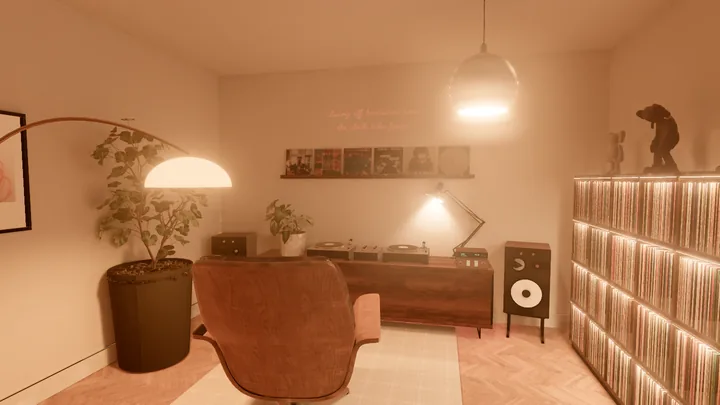
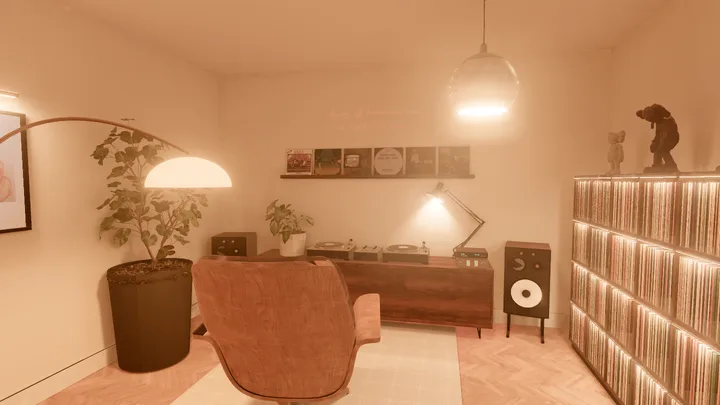
Listening Room post: seven lights (brass picture lights over the art)
Claude-Session: https://claude.ai/code/session_01LommHjWzrAy5NjnEbuJJz3

diff --git a/writing/listening-room.html b/writing/listening-room.html
@@ -121,7 +121,7 @@
             <blockquote class="prompt"><p>Obtain models from online, I won't model anything, you need to do that and drive that, along with textures and any animations. I'm looking for a highly refined and design-polished aesthetic. Realism is key.</p></blockquote>
             <p>That was the deal. I'd be the art director. Claude, working in Claude Code, would be the whole studio: 3D modeller, lighting artist, front-end developer, audio engineer and the person who deploys it at 4am.</p>
             <p>I'll be honest, I didn't think it would hold. I expected to hit a wall somewhere around the 3D and end up in Blender myself, watching tutorials. I never opened it. Not once.</p>
-            <p>That's the bit I find genuinely interesting. Not that AI can write code (we all know that by now), but that the whole chain from "find me a chair" to "bake the light from six lamps" can be driven by someone describing what they want and reacting to what they see.</p>
+            <p>That's the bit I find genuinely interesting. Not that AI can write code (we all know that by now), but that the whole chain from "find me a chair" to "bake the light from seven lamps" can be driven by someone describing what they want and reacting to what they see.</p>
 
             <h2 id="built"><span class="num">03</span>What got built</h2>
             <p>One evening, one night's sleep, one long day of feedback. Here's the tally.</p>
@@ -149,7 +149,7 @@
                 <li><strong>Dig the crate.</strong> Pull records from my collection or my recently played, load them onto deck A or B and press Start.</li>
                 <li><strong>Mix.</strong> Mix mode locks the camera over the decks. Grab the record to scratch, drag the tonearm to drop the needle, ride the faders and the crossfader.</li>
                 <li><strong>Click any sleeve</strong> on the shelf for the tracklist and a short artist bio.</li>
-                <li><strong>Switch the lights.</strong> Six lights (five lamps and LED strips under the shelves), four scenes (Sunday morning, Golden hour, Late night, All on), dimmers that warm up as they dim like real bulbs.</li>
+                <li><strong>Switch the lights.</strong> Seven lights (five lamps, brass picture lights over the art, and LED strips under the shelves), four scenes (Sunday morning, Golden hour, Late night, All on), dimmers that warm up as they dim like real bulbs.</li>
                 <li><strong>Stream</strong> a classic mix through SoundCloud: Coldcut's <em>70 Minutes of Madness</em>, Larry Levan at the Paradise Garage, the Dirtchamber Sessions.</li>
                 <li><strong>Type DOOM or DILLA.</strong> Actually, I'll let you find that one.</li>
             </ul>
@@ -207,7 +207,7 @@ cell, th, dep, ncol, nrow = 0.345, 0.02, 0.4, 5, 4
             <h3>2. Light that's real, but cheap</h3>
             <p>Realistic light is the expensive part of 3D. Light bounces: off the walls, the floor, the ceiling, the chair. Calculating that live in a browser would melt your laptop.</p>
             <p>The trick is to work it out once, in advance. Blender fires millions of light rays around the room and saves the result as an image, a <strong>lightmap</strong>, painted onto every surface. It's how games have looked good for twenty years.</p>
-            <p>The twist here: the lamps have to switch on and off. So the room is baked six times, once per light, each in plain white light. The browser then blends the six together live, tinting each one with its own colour and brightness.</p>
+            <p>The twist here: the lamps have to switch on and off. So the room is baked seven times, once per light, each in plain white light. The browser then blends the seven together live, tinting each one with its own colour and brightness.</p>
 
             <figure class="post-figure">
                 <div class="lightsum">
@@ -217,10 +217,11 @@ cell, th, dep, ncol, nrow = 0.345, 0.02, 0.4, 5, 4
                     <div class="tile"><img src="/images/writing/listening-room/lamp-desk.webp" width="720" height="405" alt="The room lit only by the anglepoise over the decks." loading="lazy"><span class="tag">Anglepoise</span></div>
                     <div class="tile"><img src="/images/writing/listening-room/lamp-neon.webp" width="720" height="405" alt="The room lit only by the neon sign." loading="lazy"><span class="tag">Neon</span></div>
                     <div class="tile"><img src="/images/writing/listening-room/lamp-shelf.webp" width="720" height="405" alt="The room lit only by the LED strips under the record shelf." loading="lazy"><span class="tag">Shelf LEDs</span></div>
+                    <div class="tile"><img src="/images/writing/listening-room/lamp-picture.webp" width="720" height="405" alt="The room lit only by the brass picture lights over the frames." loading="lazy"><span class="tag">Art lights</span></div>
                     <span class="op" aria-hidden="true">=</span>
-                    <div class="tile all"><img src="/images/writing/listening-room/lamp-all.webp" width="720" height="405" alt="The room with all six lights on together." loading="lazy"><span class="tag acid">All six</span></div>
+                    <div class="tile all"><img src="/images/writing/listening-room/lamp-all.webp" width="720" height="405" alt="The room with all seven lights on together." loading="lazy"><span class="tag acid">All seven</span></div>
                 </div>
-                <figcaption>Six baked layers, one per light, added together live. Turn a dimmer down and that layer, bounces and all, fades out.</figcaption>
+                <figcaption>Seven baked layers, one per light, added together live. Turn a dimmer down and that layer, bounces and all, fades out.</figcaption>
             </figure>
 
             <span class="code-label">GLSL · mixing the lamps</span>
@@ -241,7 +242,7 @@ vec3 mixLightmaps(vec2 uv) {
                     <img src="/images/writing/listening-room/scene-latenight.webp" width="1440" height="810" alt="Late night scene: dark outside, the anglepoise over the decks and the neon on." loading="lazy">
                     <img src="/images/writing/listening-room/scene-allon.webp" width="1440" height="810" alt="All on: every lamp lit." loading="lazy">
                 </div>
-                <figcaption>The four lighting scenes. Same room, same geometry: only the six layers' brightness and colour change.</figcaption>
+                <figcaption>The four lighting scenes. Same room, same geometry: only the seven layers' brightness and colour change.</figcaption>
             </figure>
 
             <h3>3. The decks actually play</h3>

diff --git a/post.css b/post.css
@@ -104,8 +104,8 @@
     .scenes-loop img:first-child, .scenes-loop .tile-tag span:first-child { opacity: 1; }
 }
 
-/* the lightmap sum: five layers + equals */
-.lightsum { display: grid; grid-template-columns: repeat(6, 1fr) auto 1.6fr; gap: 8px; align-items: center; }
+/* the lightmap sum: seven layers + equals */
+.lightsum { display: grid; grid-template-columns: repeat(7, 1fr) auto 1.6fr; gap: 8px; align-items: center; }
 .lightsum .op { font-family: var(--font-serif); font-size: 2rem; color: var(--color-accent); padding: 0 4px; }
 .lightsum .tile .tag { font-size: 0.6rem; left: 6px; top: 6px; }
 
@@ -133,7 +133,8 @@
     .stats div:nth-child(3) { border-left: 0; padding-left: 0; }
     .stats div:nth-child(n+3) { border-top: 1px solid var(--color-border); }
     .grid-3 { grid-template-columns: 1fr; }
-    .lightsum { grid-template-columns: repeat(3, 1fr); }
+    .lightsum { grid-template-columns: repeat(3, minmax(0, 1fr)); }
+    .lightsum .tile .tag { white-space: nowrap; font-size: 0.56rem; padding: 2px 6px; }
     .lightsum .op { display: none; }
     .lightsum .tile.all { grid-column: 1 / -1; }
     .diagram.wide { overflow-x: auto; } .diagram.wide svg { min-width: 720px; }
